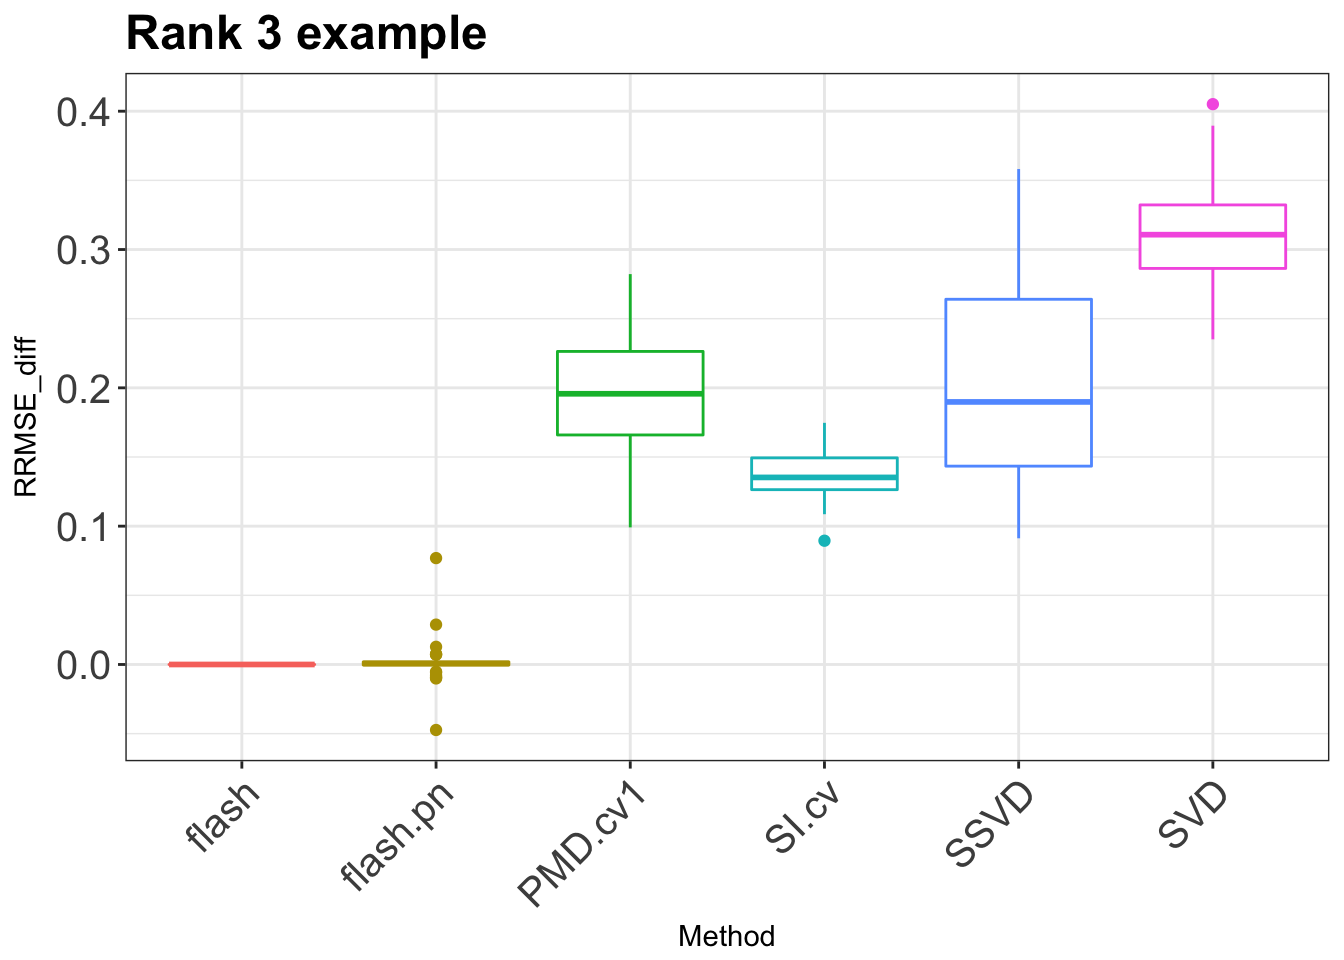
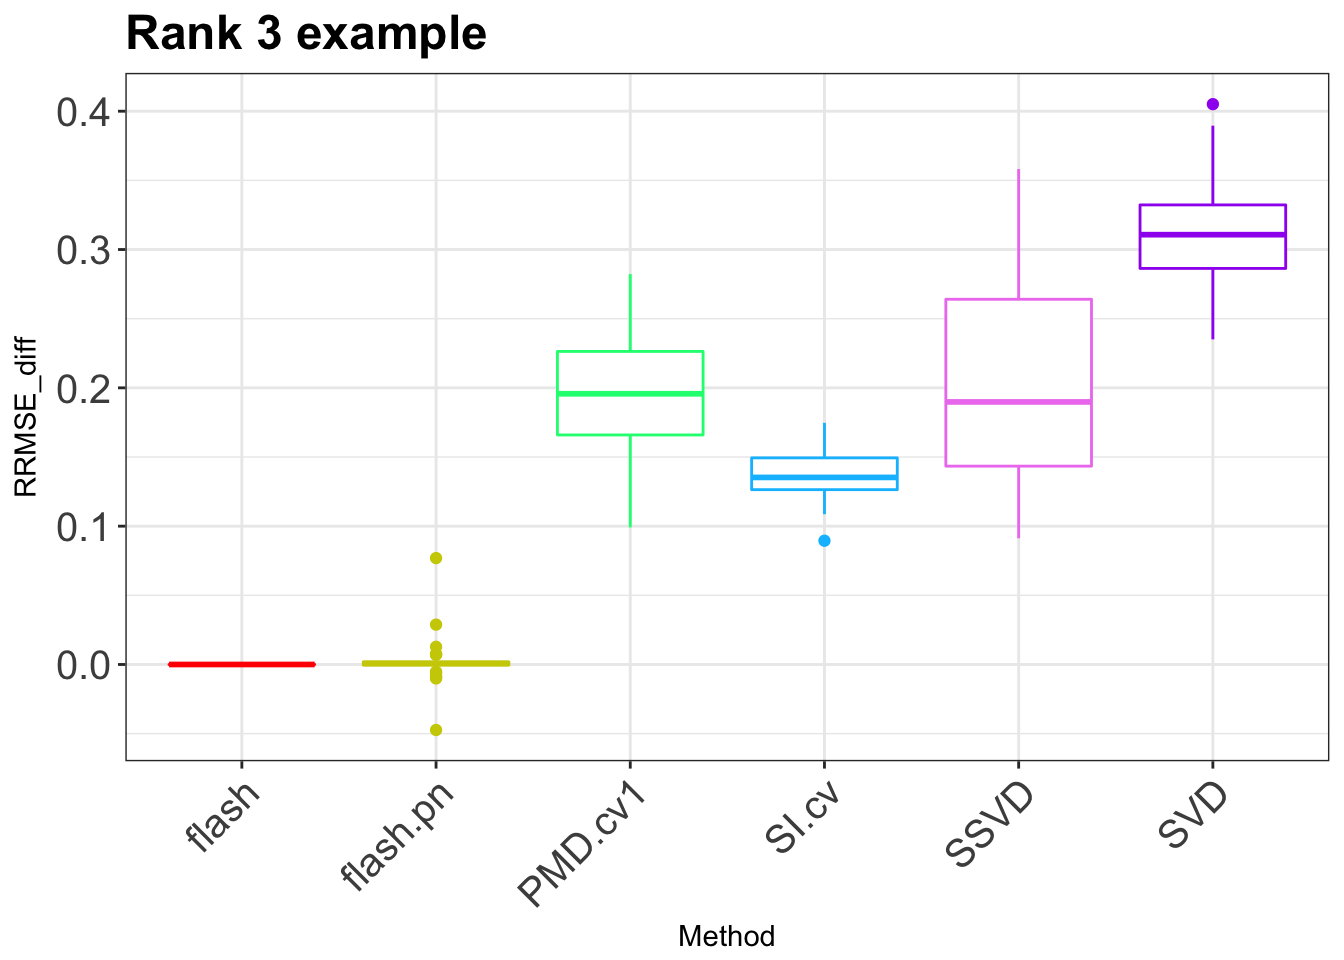
Build site.

diff --git a/docs/MSErank3sim.html b/docs/MSErank3sim.html
@@ -329,10 +329,10 @@ div.tocify {
 shared across the workflowr files. -->
 <!-- Update knitr chunk options -->
 <!-- Insert the date the file was last updated -->
-<p><strong>Last updated:</strong> 2018-01-25</p>
+<p><strong>Last updated:</strong> 2018-01-27</p>
 <!-- Insert the code version (Git commit SHA1) if Git repository exists and R
  package git2r is installed -->
-<p><strong>Code version:</strong> 8c0d4dd</p>
+<p><strong>Code version:</strong> 392e32a</p>
 <!-- Add your analysis here -->
 <p>This file is just generate the RRMSE plot of rank 3 data.</p>
 <pre class="r"><code># the example in our paper using sigma = 2
@@ -562,7 +562,7 @@ saveRDS(results,&quot;./RES_rrmse.rds&quot;)</code></pre>
 </div>
 <div id="plot-the-result" class="section level2">
 <h2>plot the result</h2>
-<pre class="r"><code>plot_res = function(output,title = &quot;data&quot;,legend_position = &quot;none&quot;, methods_name){
+<pre class="r"><code>plot_res = function(output,title = &quot;data&quot;,legend_position = &quot;none&quot;, methods_name,myColors){
   rmse = as.vector(output)
   N = dim(output)[1]
   methods = rep(methods_name, each = N)
@@ -570,7 +570,7 @@ saveRDS(results,&quot;./RES_rrmse.rds&quot;)</code></pre>
   p&lt;-ggplot(df, aes(x=Method, y=RRMSE_diff, color=Method)) +
   geom_boxplot()+
   # geom_violin()+
-  ggtitle(title) +  theme_bw()+
+  ggtitle(title) +  theme_bw()+ scale_color_manual(values=myColors)+
     theme(legend.position= legend_position, legend.text=element_text(size=10),
           plot.title = element_text(size = 18, face = &quot;bold&quot;),
           axis.text.y = element_text(size =15), 
@@ -578,12 +578,14 @@ saveRDS(results,&quot;./RES_rrmse.rds&quot;)</code></pre>
   p
 }
 library(ggplot2)</code></pre>
-<pre class="r"><code>sparse_res = readRDS(&quot;../data/simulation/rankthree/boxplot.rds&quot;)
+<pre class="r"><code>sparse_res = readRDS(&quot;../data/output/simulation/rankthree/boxplot.rds&quot;)
 colnames(sparse_res) = c(&quot;PMD.cv1&quot;,&quot;flash&quot;,&quot;flash.pn&quot;,&quot;SVD&quot;,&quot;SSVD&quot;,&quot;SI.cv&quot;)
 sparse_diff = sparse_res - sparse_res[,2]
 # p3 = plot_res(sparse_diff,&quot;Difference from FLASH result (0% zeros)&quot;)
 methods_name = colnames(sparse_diff)
-p3 = plot_res(sparse_diff,title = &quot;Rank 3 example&quot;,methods_name = methods_name)</code></pre>
+fill_color =  c(&quot;red&quot;,&quot;yellow3&quot;, &quot;springgreen&quot;, &quot;springgreen3&quot;, &quot;cyan&quot;,&quot;cyan3&quot;, &quot;deepskyblue&quot;,&quot;violet&quot;,&quot;purple&quot;)
+p3 = plot_res(sparse_diff,title = &quot;Rank 3 example&quot;,methods_name = methods_name,
+              myColors = fill_color[c(1,2,3,7,8,9)])</code></pre>
 <pre class="r"><code>p3</code></pre>
 <p><img src="figure/MSErank3sim.Rmd/unnamed-chunk-4-1.png" width="672" style="display: block; margin: auto;" /></p>
 </div>
@@ -602,25 +604,20 @@ attached base packages:
 [1] stats     graphics  grDevices utils     datasets  methods   base     
 
 other attached packages:
- [1] MASS_7.3-47     workflowr_0.4.0 rmarkdown_1.6   reshape2_1.4.3 
- [5] ebnm_0.1-7      softImpute_1.4  Matrix_1.2-11   ssvd_1.0       
- [9] flashr2_0.4-0   PMA_1.0.9       impute_1.48.0   plyr_1.8.4     
-[13] ggplot2_2.2.1  
+[1] R.matlab_3.6.1  MASS_7.3-47     workflowr_0.4.0 rmarkdown_1.6  
+[5] ggplot2_2.2.1  
 
 loaded via a namespace (and not attached):
- [1] Rcpp_0.12.14      git2r_0.19.0      iterators_1.0.9  
- [4] tools_3.3.0       digest_0.6.13     evaluate_0.10.1  
- [7] tibble_1.3.4      gtable_0.2.0      lattice_0.20-35  
-[10] rlang_0.1.6       foreach_1.4.4     yaml_2.1.16      
-[13] parallel_3.3.0    gridExtra_2.3     stringr_1.2.0    
-[16] knitr_1.18        REBayes_0.85      rprojroot_1.2    
-[19] grid_3.3.0        flashr_0.1.1      ashr_2.2-3       
-[22] magrittr_1.5      backports_1.1.2   scales_0.4.1     
-[25] codetools_0.2-15  htmltools_0.3.6   assertthat_0.2.0 
-[28] colorspace_1.3-2  labeling_0.3      stringi_1.1.6    
-[31] Rmosek_7.1.2      lazyeval_0.2.0    pscl_1.5.2       
-[34] doParallel_1.0.11 munsell_0.4.3     truncnorm_1.0-7  
-[37] SQUAREM_2017.10-1</code></pre>
+ [1] Rcpp_0.12.14      rstudioapi_0.6    flashr2_0.4-0    
+ [4] knitr_1.18        magrittr_1.5      munsell_0.4.3    
+ [7] colorspace_1.3-2  rlang_0.1.6       stringr_1.2.0    
+[10] plyr_1.8.4        tools_3.3.0       grid_3.3.0       
+[13] gtable_0.2.0      R.oo_1.21.0       git2r_0.19.0     
+[16] htmltools_0.3.6   yaml_2.1.16       lazyeval_0.2.0   
+[19] digest_0.6.13     rprojroot_1.2     tibble_1.3.4     
+[22] gridExtra_2.3     R.utils_2.5.0     ssvd_1.0         
+[25] evaluate_0.10.1   labeling_0.3      stringi_1.1.6    
+[28] R.methodsS3_1.7.1 scales_0.4.1      backports_1.1.2  </code></pre>
 </div>
 
 <hr>
